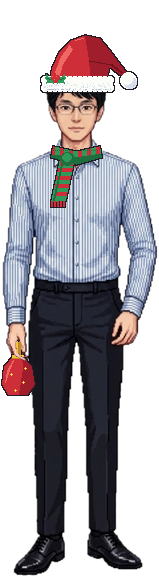
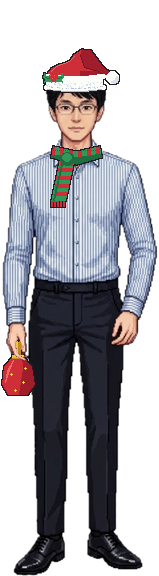
크리스마스 꾸밈: 모자를 머리 크기에 맞게(자연스럽게)
- 모자 폭·위치를 원본의 머리 실루엣으로 재서 정한다(띠 윗줄의 머리 폭 + 양쪽 2px). 예전에는 머리보다 10~13px 넓었다
- 모자 안쪽 높이는 머리카락을 덮을 만큼만, 챙은 머리를 감싸는 곡선(가운데가 2px 내려감), 모자 아래 얇은 그림자
- 털모자(여자 캐릭터): 폭 73 → 64px, 높이도 줄여 긴 머리가 모자 아래로 흘러나오게
- 산타·엘프 모자: 머리에 맞춘 뒤 꼭대기만 올려 늘어진 끝을 살림
- 루돌프 뿔 머리띠는 그대로

Claude-Session: https://claude.ai/code/session_016yWrSv467UU5pfhhZZV1JG

Changed region(s): [[0.2516, 0.0625, 0.8805, 0.1875]]

diff --git a/tools/xmas/deco.py b/tools/xmas/deco.py
@@ -130,81 +130,178 @@ def bell(L, x, y, r=4):
 
 # ── 모자·머리띠 ───────────────────────────────────────────────────────────────
 
-def santa_hat(L, cx, by, w):
-    l, r = cx - w // 2, cx + w // 2
-    body = [(l + 2, by + 4), (l + 5, by - 10), (l + 12, by - 26), (cx - 6, by - 38), (cx + 8, by - 43), (cx + 22, by - 40),
-            (r + 2, by - 28), (r + 14, by - 12), (r + 22, by - 2), (r + 12, by - 4), (r + 2, by - 12), (r - 2, by + 4)]
-    L.poly(body, RED)
-    L.poly([(cx + 8, by - 43), (cx + 22, by - 40), (r + 2, by - 28), (r + 14, by - 12), (r + 22, by - 2), (r + 12, by - 4),
-            (r + 2, by - 12), (r - 2, by + 4), (cx + 14, by + 4), (cx + 12, by - 18)], RED_D)
-    L.line([(cx + 12, by - 18), (r + 4, by - 14), (r + 14, by - 6)], RED_DD, 2)  # 접힌 주름
-    L.poly([(l + 8, by - 6), (l + 13, by - 20), (cx - 8, by - 33), (cx - 5, by - 29), (l + 15, by - 14), (l + 11, by)], RED_L)
-    L.line([(cx - 2, by - 38), (cx + 6, by - 40)], RED_L)
-    # 방울
-    px, py = r + 21, by + 2
-    L.ell(px - 8, py - 8, px + 8, py + 8, WHT)
-    L.ell(px - 4, py - 3, px + 8, py + 8, WHT_D)
-    L.ell(px - 7, py - 7, px + 4, py + 4, WHT)
-    L.px(px - 4, py - 4, C(255, 255, 255))
-    L.px(px + 5, py + 5, WHT_DD)
-    fur(L, l - 3, by - 2, r + 3, by + 13, 4)
-    holly(L, l + 8, by + 1)
+# 모자는 머리 실루엣에 맞춘다: 띠(챙) 폭과 가운데는 띠 윗줄의 머리 폭으로, 모자 안쪽 높이는 머리카락을 덮을 만큼만.
+# 챙은 머리를 감싸듯 가운데가 살짝 내려간 곡선, 긴 머리는 띠 아래로 흘러나온다.
+
+def head_profile(src):
+    """머리 쪽 실루엣: y별 (왼쪽 x, 오른쪽 x), 원본 좌표."""
+    a = src.split()[3]
+    prof = {}
+    for y in range(0, 60):
+        xs = [x for x in range(30, min(src.width, 126)) if a.getpixel((x, y)) > 0]
+        if xs:
+            prof[y] = (xs[0], xs[-1])
+    return prof
 
 
-def elf_hat(L, cx, by, w):
-    l, r = cx - w // 2, cx + w // 2
-    cone = [(l + 2, by + 2), (l + 6, by - 12), (l + 2, by - 26), (l - 8, by - 38), (l - 18, by - 46), (l - 8, by - 42),
-            (l + 8, by - 32), (cx - 2, by - 22), (cx + 12, by - 10), (r - 2, by + 2)]
-    L.poly(cone, GRN)
-    L.poly([(cx - 2, by - 22), (cx + 12, by - 10), (r - 2, by + 2), (cx + 6, by + 2), (cx - 4, by - 12)], GRN_D)
-    L.poly([(l + 6, by - 10), (l + 3, by - 24), (l - 6, by - 36), (l - 2, by - 35), (l + 7, by - 25), (l + 10, by - 10)], GRN_L)
-    L.line([(l + 4, by - 26), (cx - 4, by - 14)], GRN_DD)  # 천 주름
-    bell(L, l - 21, by - 48, 5)
-    # 금색 띠 + 초록 마름모 무늬
-    L.rect(l - 3, by - 2, r + 3, by + 11, GOLD)
-    L.rect(l - 3, by + 8, r + 3, by + 11, GOLD_D)
-    L.line([(l - 3, by - 1), (r + 3, by - 1)], GOLD_L)
-    for x in range(l + 2, r, 9):
-        L.poly([(x, by + 4), (x + 3, by + 1), (x + 6, by + 4), (x + 3, by + 7)], GRN_D)
-        L.px(x + 3, by + 3, GRN_L)
-    holly(L, r - 6, by, -1)
+class Fit:
+    """모자 자리. top·bottom = 띠의 윗줄·아랫줄(양 끝 기준), cx·w = 가운데·폭, dome = 머리카락을 덮는 모자 안쪽 높이."""
+
+    def __init__(self, prof, top, bottom, overhang=2, margin=2):
+        self.top, self.bottom = top, bottom
+        xl, xr = prof[top]
+        self.cx = (xl + xr) / 2
+        self.w = (xr - xl + 1) + overhang * 2
+        self.l, self.r = self.cx - self.w / 2, self.cx + self.w / 2
+        a = self.w / 2 - 1
+        need = 0
+        for y, (x0, x1) in prof.items():
+            if y >= top:
+                continue
+            for x in (x0, x1):
+                t = max(0.05, 1 - ((x - self.cx) / a) ** 2)
+                need = max(need, (top - y) / math.sqrt(t))
+        self.dome = need + margin
+
+    def curve(self, x, depth=2):
+        """챙 곡선: 가운데가 depth만큼 내려간 U자. x 위치에서 더할 y."""
+        u = (x - self.cx) / (self.w / 2)
+        return round(depth * max(0.0, 1 - u * u))
+
+    def dome_pts(self, b=None, inset=1):
+        """띠 윗줄 위의 반타원(모자 안쪽) 점들."""
+        a, b = self.w / 2 - inset, b or self.dome
+        pts = [(self.cx + a * math.cos(t), self.top + 1 - b * math.sin(t)) for t in [i * math.pi / 32 for i in range(33)]]
+        return pts
 
 
+def band(L, f, top_off, bot_off, fill):
+    """챙 곡선을 따라 띠 한 줄을 칠한다(top_off·bot_off는 f.top 기준)."""
+    for x in range(math.floor(f.l), math.ceil(f.r) + 1):
+        c = f.curve(x)
+        L.line([(x, f.top + top_off + c), (x, f.top + bot_off + c)], fill)
 
 
-def beanie(L, cx, by, w):
-    l, r = cx - w // 2, cx + w // 2
-    a, b, cy = (r - l) / 2, 20, by - 12  # 돔(타원) 반지름·중심. 아래 끝(by+8)은 접은 단(by-2~by+13) 뒤로 숨는다
-    def top(x):
+def contact_shadow(base, f):
+    """모자 아래 머리·이마에 얇은 그림자(머리에 얹힌 느낌)."""
+    px = base.load()
+    for x in range(math.floor(f.l) + 1, math.ceil(f.r)):
+        y = f.bottom + f.curve(x) + 2
+        for dy, a in ((0, 70), (1, 34)):
+            X, Y = x + OX, y + dy + OY
+            if 0 <= X < base.width and 0 <= Y < base.height and px[X, Y][3] > 0:
+                r, g, b, al = px[X, Y]
+                k = 1 - a / 255
+                px[X, Y] = (int(r * k), int(g * k), int(b * k), al)
+
+
+def beanie(L, f):
+    cx, top = f.cx, f.top
+    b = max(f.dome, 10)
+    L.poly(f.dome_pts(b), RED)
+    a = f.w / 2 - 1
+    for x in range(math.floor(f.l) + 1, math.ceil(f.r)):  # 오른쪽 그늘 + 니트 골
         t = max(0.0, 1 - ((x - cx) / a) ** 2)
-        return cy - b * math.sqrt(t)
-    L.ell(l, cy - b, r, cy + b, RED)
-    for x in range(l + 1, r):  # 오른쪽 그늘 + 니트 골
-        y0 = round(top(x)) + 1
-        if x > cx + 8:
-            L.line([(x, y0), (x, by)], RED_D)
-        if (x - l) % 4 == 0:
-            L.line([(x, y0 + 2), (x, by)], RED_DD if x > cx + 8 else RED_D)
-    for y in range(by - 22, by - 2, 5):  # 꽈배기 무늬
+        y0 = round(top + 1 - b * math.sqrt(t)) + 1
+        if x > cx + 6:
+            L.line([(x, y0), (x, top + 1)], RED_D)
+        if (x - math.floor(f.l)) % 4 == 0 and y0 < top:
+            L.line([(x, y0 + 1), (x, top + 1)], RED_DD if x > cx + 6 else RED_D)
+    for y in range(round(top - b + 6), top - 1, 5):  # 꽈배기 무늬
         L.line([(cx - 2, y), (cx + 2, y + 3)], RED_L)
         L.line([(cx + 2, y), (cx - 2, y + 3)], RED_DD)
-    L.line([(l + 7, by - 12), (l + 13, by - 22), (cx - 8, by - 27)], RED_L)
-    # 접은 단: 빨강 바탕 + 흰 지그재그·눈송이 무늬
-    L.rect(l - 3, by - 2, r + 3, by + 13, RED_D)
-    for x in range(l - 2, r + 3):
-        y = by + 2 + (abs((x % 6) - 3) if True else 0)
-        L.px(x, y, WHT)
-        L.px(x, by + 10 - abs((x % 6) - 3), WHT_D)
-    for x in range(l + 4, r - 2, 12):
+    L.line([(f.l + 6, top - b * 0.35), (f.l + 11, top - b * 0.7), (cx - 7, top - b * 0.93)], RED_L)
+    # 접은 단: 곡선을 따라
+    band(L, f, 0, f.bottom - top, RED_D)
+    for x in range(math.floor(f.l), math.ceil(f.r) + 1):
+        c = f.curve(x)
+        L.px(x, top + 2 + abs((x % 6) - 3) // 2 + c, WHT)
+        L.px(x, f.bottom - 2 - abs((x % 6) - 3) // 2 + c, WHT_D)
+        L.px(x, f.bottom + c, RED_DD)
+    for x in range(math.floor(f.l) + 5, math.ceil(f.r) - 3, 11):
+        y = (top + f.bottom) // 2 + f.curve(x)
         for dx, dy in ((0, 0), (-1, 0), (1, 0), (0, -1), (0, 1)):
-            L.px(x + dx, by + 6 + dy, WHT)
-    L.line([(l - 3, by + 13), (r + 3, by + 13)], RED_DD)
-    # 털 방울
-    for dx, dy, rr in ((0, -34, 7), (-5, -31, 5), (5, -31, 5), (0, -39, 5), (-4, -37, 4), (4, -37, 4)):
-        L.ell(cx + dx - rr, by + dy - rr, cx + dx + rr, by + dy + rr, WHT)
-    L.ell(cx - 1, by - 34, cx + 7, by - 27, WHT_D)
-    L.px(cx - 3, by - 38, C(255, 255, 255))
-    L.px(cx + 5, by - 29, WHT_DD)
+            L.px(x + dx, y + dy, WHT)
+    # 털 방울(작게)
+    py = top - b - 3
+    for dx, dy, rr in ((0, 0, 5), (-3, 2, 3), (3, 2, 3), (0, -3, 3)):
+        L.ell(cx + dx - rr, py + dy - rr, cx + dx + rr, py + dy + rr, WHT)
+    L.ell(cx, py - 1, cx + 5, py + 4, WHT_D)
+    L.px(cx - 2, py - 3, C(255, 255, 255))
+    return f
+
+
+def santa_hat(L, f):
+    cx, top, l, r = f.cx, f.top, f.l, f.r
+    b = max(f.dome, 10)
+    L.poly(f.dome_pts(b), RED)
+    # 오른쪽으로 접혀 늘어진 끝
+    tip = (r + 11, top + 1)
+    flop = [(cx - 6, top - b + 2), (cx, top - b - 7), (cx + 8, top - b - 12), (cx + 16, top - b - 11), (r, top - b * 0.5 - 3),
+            (r + 9, top - b * 0.15), (tip[0] + 2, tip[1] - 2), (tip[0] - 4, tip[1] + 1), (r + 1, top - b * 0.05), (r - 4, top - b * 0.3)]
+    L.poly(flop, RED)
+    L.poly([(cx + 8, top - b - 12), (cx + 16, top - b - 11), (r, top - b * 0.5 - 3), (r + 9, top - b * 0.15), (tip[0] + 2, tip[1] - 2),
+            (tip[0] - 4, tip[1] + 1), (r + 1, top - b * 0.05), (r - 4, top - b * 0.3), (cx + 10, top - b * 0.55), (cx + 6, top - b - 6)], RED_D)
+    L.line([(cx + 6, top - b - 6), (cx + 10, top - b * 0.55), (r - 3, top - b * 0.28), (r + 2, top - b * 0.05)], RED_DD)  # 접힌 주름
+    a = f.w / 2 - 1
+    for x in range(math.floor(cx) + 6, math.ceil(r)):  # 안쪽 오른쪽 그늘
+        t = max(0.0, 1 - ((x - cx) / a) ** 2)
+        y0 = round(top + 1 - b * math.sqrt(t)) + 1
+        L.line([(x, max(y0, top - b * 0.3)), (x, top + 1)], RED_D)
+    L.line([(l + 5, top - b * 0.3), (l + 10, top - b * 0.68), (cx - 5, top - b * 0.96), (cx, top - b - 5)], RED_L)
+    # 방울
+    px, py = tip
+    L.ell(px - 6, py - 6, px + 6, py + 6, WHT)
+    L.ell(px - 2, py - 2, px + 6, py + 6, WHT_D)
+    L.ell(px - 5, py - 5, px + 3, py + 3, WHT)
+    L.px(px - 3, py - 3, C(255, 255, 255))
+    # 털 테두리: 곡선을 따라
+    rnd = random.Random(4)
+    band(L, f, -1, f.bottom - top, WHT)
+    for x in range(math.floor(l), math.ceil(r) + 1, 4):
+        c = f.curve(x)
+        L.ell(x - 2, top - 2 + c, x + 3, top + 2 + c, WHT)
+        L.ell(x - 2, f.bottom - 2 + c, x + 3, f.bottom + 2 + c, WHT)
+    for x in range(math.floor(l), math.ceil(r) + 1):
+        c = f.curve(x)
+        for y in range((top + f.bottom) // 2 + c, f.bottom + c + 1):
+            if rnd.random() < 0.2:
+                L.px(x, y, WHT_D)
+        if rnd.random() < 0.3:
+            L.px(x, f.bottom - 1 + c, WHT_DD)
+    holly(L, l + 7, top + 1 + f.curve(l + 7))
+    return f
+
+
+def elf_hat(L, f):
+    cx, top, l, r = f.cx, f.top, f.l, f.r
+    b = max(f.dome, 10)
+    L.poly(f.dome_pts(b), GRN)
+    tip = (l - 10, top - b - 17)
+    cone = [(l + 2, top - b * 0.45), (l + 4, top - b * 0.85), (l - 2, top - b - 6), (tip[0], tip[1]),
+            (l + 8, top - b - 10), (cx - 2, top - b - 3), (cx + 6, top - b * 0.9)]
+    L.poly(cone, GRN)
+    a = f.w / 2 - 1
+    for x in range(math.floor(cx) + 4, math.ceil(r)):  # 오른쪽 그늘
+        t = max(0.0, 1 - ((x - cx) / a) ** 2)
+        y0 = round(top + 1 - b * math.sqrt(t)) + 1
+        L.line([(x, y0), (x, top + 1)], GRN_D)
+    L.poly([(l + 1, top - b * 0.8), (l - 2, top - b - 4), (tip[0] + 2, tip[1] + 2), (l + 3, top - b * 0.75)], GRN_L)
+    L.line([(l + 5, top - b * 0.75), (cx - 2, top - b * 0.5)], GRN_DD)  # 천 주름
+    bell(L, tip[0] - 2, tip[1] - 2, 4)
+    # 금색 띠 + 초록 마름모 무늬, 곡선을 따라
+    band(L, f, -1, f.bottom - top, GOLD)
+    for x in range(math.floor(l), math.ceil(r) + 1):
+        c = f.curve(x)
+        L.px(x, top - 1 + c, GOLD_L)
+        L.px(x, f.bottom + c, GOLD_D)
+        L.px(x, f.bottom - 1 + c, GOLD_D)
+    for x in range(math.floor(l) + 3, math.ceil(r) - 4, 8):
+        y = (top + f.bottom) // 2 + f.curve(x + 3)
+        L.poly([(x, y), (x + 3, y - 3), (x + 6, y), (x + 3, y + 3)], GRN_D)
+        L.px(x + 3, y - 1, GRN_L)
+    holly(L, r - 6, top + f.curve(r - 6), -1)
+    return f
 
 
 def antlers(L, cx, ty, w, nose):
@@ -376,19 +473,19 @@ def hand_mask(src, box):
 
 SPECS = {
     1: dict(name="rudolph", label="루돌프",
-            head=lambda L, s: antlers(L, 73, 2, 56, (73, 57)),
+            head=lambda L, s, p: antlers(L, 73, 2, 56, (73, 57)),
             scarf=(73, 82, 46, RED, RED_D, WHT, -1),
             prop=lambda L: candy_cane(L, 15, 250, 320), hand=(3, 258, 28, 300)),
     2: dict(name="elf", label="엘프",
-            head=lambda L, s: elf_hat(L, 75, 14, 60),
+            head=lambda L, s, p: elf_hat(L, Fit(p, 12, 21)),
             scarf=(75, 82, 46, RED, RED_D, GRN, 1),
             prop=lambda L: gift_box(L, 2, 297, 28, 318), hand=(3, 258, 28, 300)),
     3: dict(name="beanie", label="털모자",
-            head=lambda L, s: beanie(L, 73, 18, 66),
+            head=lambda L, s, p: beanie(L, Fit(p, 18, 28)),
             scarf=(72, 86, 52, GRN, GRN_D, WHT, 1),
             prop=lambda L: cocoa_mug(L, -14, 276, 2, 296), hand=(0, 256, 24, 302)),
     4: dict(name="santa", label="산타",
-            head=lambda L, s: santa_hat(L, 75, 14, 60),
+            head=lambda L, s, p: santa_hat(L, Fit(p, 12, 23)),
             scarf=(74, 82, 46, GRN, GRN_D, RED, -1),
             prop=lambda L: gift_sack(L, 15, 292, 38), hand=(3, 258, 28, 300)),
 }
@@ -406,8 +503,12 @@ for k, spec in SPECS.items():
     pr = Layer((W, H)); spec["prop"](pr); base.alpha_composite(outlined(pr))
     hb = spec["hand"]
     base.alpha_composite(hand_mask(src, hb), (OX, OY))
-    hd = Layer((W, H)); spec["head"](hd, skin)
+    prof = head_profile(src)
+    hd = Layer((W, H))
+    fit = spec["head"](hd, skin, prof)
     base.alpha_composite(outlined(hd))
+    if isinstance(fit, Fit):
+        contact_shadow(base, fit)
 
     if GLOW:
         g = Layer((W, H))

diff --git a/README.md b/README.md
@@ -334,7 +334,7 @@ npm run test:e2e     # 터미널 2: 화면 흐름 검증 8개 (특정 것만: np
 
 눈 내림, 전구 줄, 패널 제목의 호랑가시 잎, 로고의 산타 모자, 트리·선물, 선물 리본, 로그인 화면 파트장님·PL님의 크리스마스 꾸밈(`src/assets/xmas/leader1~4.png`: 루돌프 뿔·사슴 귀·빨간 코와 지팡이 사탕, 엘프 모자와 선물 상자, 니트 털모자와 코코아 머그, 산타 모자와 선물 자루, 모두 목도리)은 `src/xmas.jsx`, `src/xmas.css`, `src/assets/xmas/`에만 있다. 기본 색·테두리·버튼·대사창(방탈출 값)은 `styles.css`에서 바꾸지 않았다. 움직임 줄이기 설정을 켠 기기에서는 눈과 전구가 멈춰 있다.
 
-꾸밈 그림은 `tools/xmas/deco.py`(원본 `public/char/boss1~4.png` 위에 1픽셀 해상도로 그림, 손 픽셀을 다시 덮어 소품을 쥔 모양)로 만들고, `tools/xmas/export_cards.py`가 사람별 PNG(투명 원본, 4배 확대, 1080×1920 크리스마스 배경 카드)를 내보낸다. Python과 Pillow가 필요하다.
+꾸밈 그림은 `tools/xmas/deco.py`(원본 `public/char/boss1~4.png` 위에 1픽셀 해상도로 그림, 모자는 원본의 머리 실루엣을 재서 폭·위치·높이를 맞추고 챙은 머리를 감싸는 곡선, 손 픽셀을 다시 덮어 소품을 쥔 모양)로 만들고, `tools/xmas/export_cards.py`가 사람별 PNG(투명 원본, 4배 확대, 1080×1920 크리스마스 배경 카드)를 내보낸다. Python과 Pillow가 필요하다.
 
 ```
 python3 tools/xmas/deco.py public/char <출력 폴더>          # leader1~4.png
